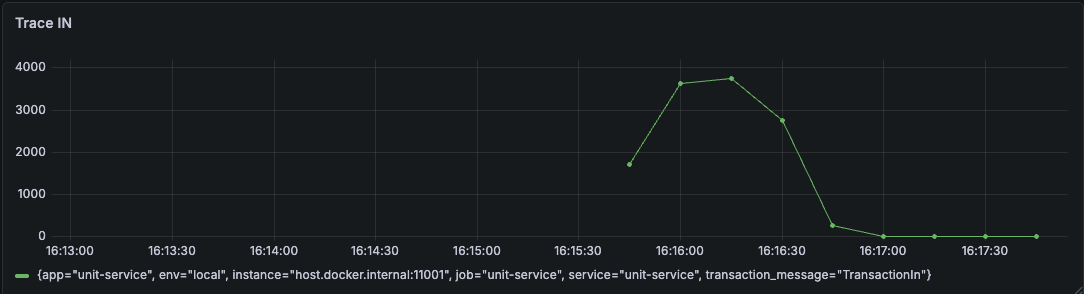
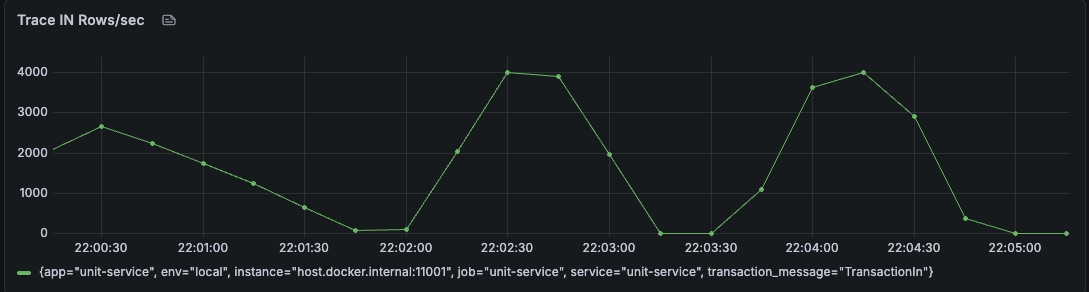
docs

diff --git a/README.md b/README.md
@@ -220,7 +220,7 @@ Current goals of this model:
 ## Performance
 
 The framework is designed for high-throughput transaction processing.  
-Under the current implementation and benchmark conditions, the target processing rate is **up to 3,000 transactions per second (TPS)**.
+Under the current implementation and benchmark conditions, the target processing rate is **up to 4,000 transactions per second (TPS)**.
 
 The achieved throughput depends on several factors, including:
 